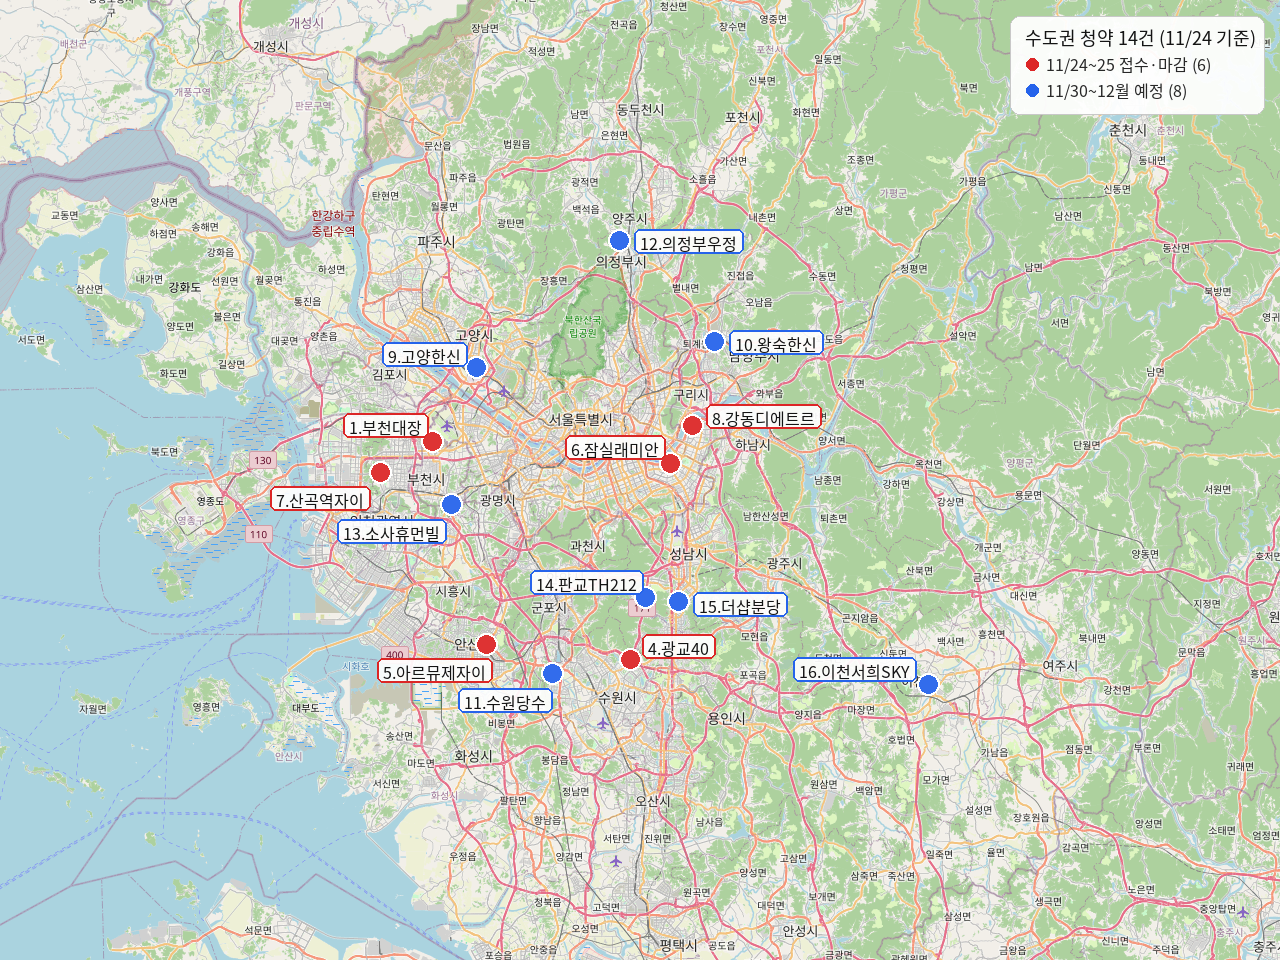
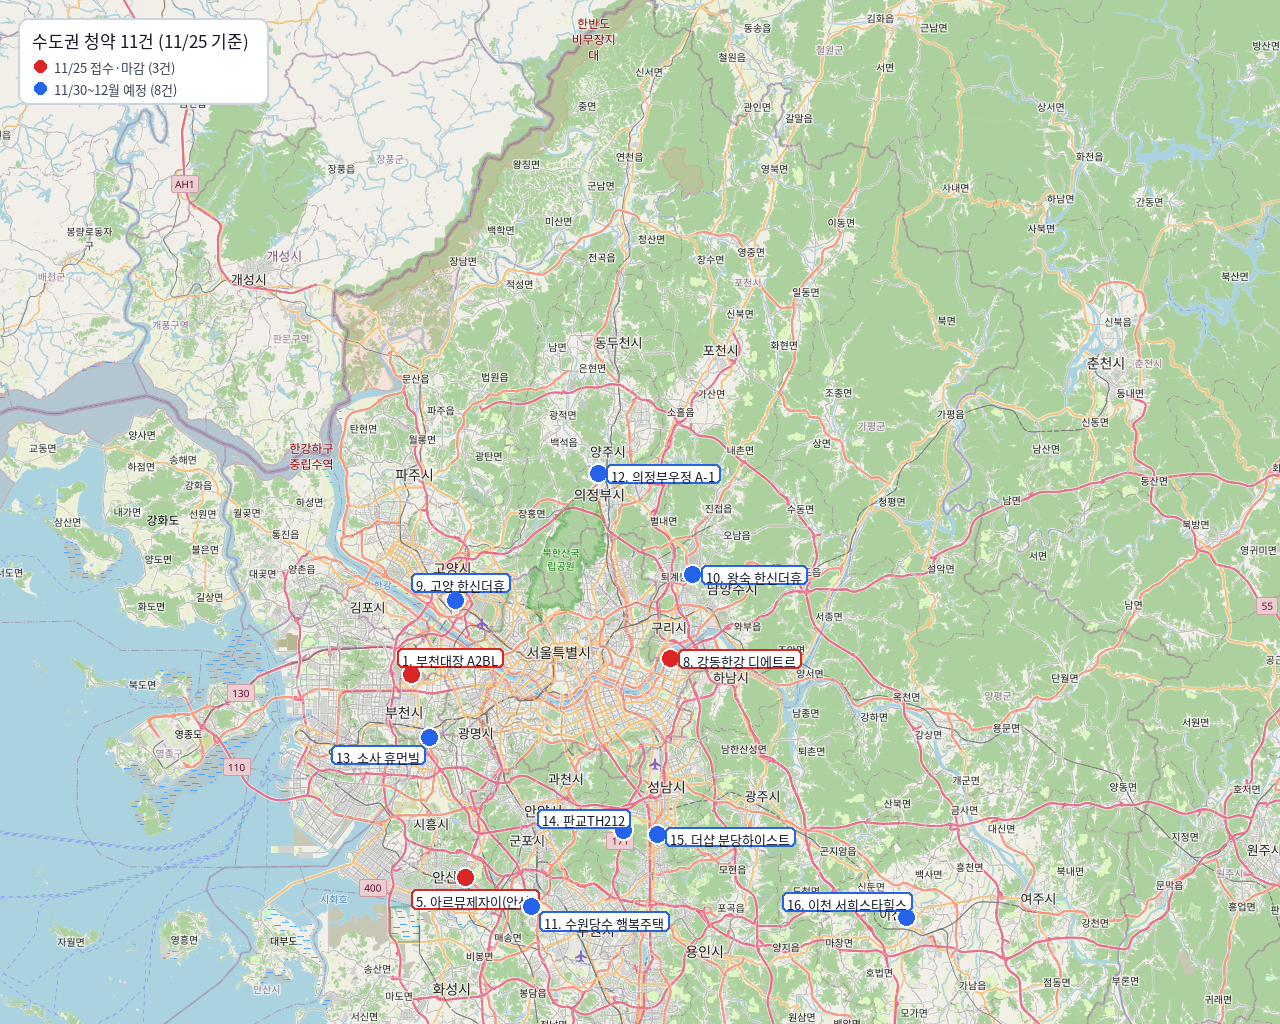
Update subscription map for 2026-11-25 (11 active)

diff --git a/index.html b/index.html
@@ -3,7 +3,7 @@
 <head>
 <meta charset="utf-8" />
 <meta name="viewport" content="width=device-width, initial-scale=1.0" />
-<title>수도권 청약 공고 지도 (2026-11-24 기준)</title>
+<title>수도권 청약 공고 지도 (2026-11-25 기준)</title>
 <link rel="stylesheet" href="https://unpkg.com/leaflet@1.9.4/dist/leaflet.css" />
 <style>
   html, body, #map { margin: 0; padding: 0; width: 100%; height: 100%; font-family: -apple-system, BlinkMacSystemFont, "Noto Sans KR", sans-serif; }
@@ -24,10 +24,7 @@ L.tileLayer('https://tile.openstreetmap.org/{z}/{x}/{y}.png', {
 
 const items = [
   {id: 1, name: "부천대장 하우스토리 디센트 (A2BL)", type: "공공분양 · 경기 부천", sched: "특공 11.23 / 1순위 11.24 / 2순위 11.25", price: "59㎡ 6.13억 / 74㎡ 7.44억 / 84㎡ 8.11억", lat: 37.54206, lng: 126.77555, color: "#dc2626", url: "https://www.applyhome.co.kr/ai/aia/selectAPTLttotPblancDetail.do?houseManageNo=2026000457&pblancNo=2026000457"},
-  {id: 4, name: "수원 광교40 더포레스트 공가 매각", type: "LH 일반매각 · 경기 수원", sched: "11.23(월)~11.24(화)", price: "84.81㎡ 9.16~9.39억", lat: 37.30369, lng: 127.04637, color: "#dc2626", url: "https://apply.lh.or.kr/lhapply/apply/wt/wrtanc/selectWrtancInfo.do?panId=2015122300021113&ccrCnntSysDsCd=03&uppAisTpCd=05&aisTpCd=05&mi=1027"},
   {id: 5, name: "아르뮤제자이", type: "민영 · 경기 안산", sched: "특공 11.23 / 1순위 11.24 / 2순위 11.25", price: "84㎡ 11.05억 / 99~104㎡ 12.4~14.08억", lat: 37.32065, lng: 126.84952, color: "#dc2626", url: "https://www.applyhome.co.kr/ai/aia/selectAPTLttotPblancDetail.do?houseManageNo=2026000576&pblancNo=2026000576"},
-  {id: 6, name: "잠실 래미안아이파크 (재공급)", type: "민영 재공급 · 서울 송파", sched: "11.24(화) 09:00~17:30", price: "43㎡ 11.05억 / 59㎡ 15.79억", lat: 37.51829, lng: 127.10137, color: "#dc2626", url: "https://www.applyhome.co.kr/ai/aia/selectAPTRemndrLttotPblancDetailView.do?houseManageNo=2026930045&pblancNo=2026930045"},
-  {id: 7, name: "산곡역자이힐스테이트&하늘채 무순위", type: "민영 무순위 · 인천 부평", sched: "11.24(화) 09:00~17:30", price: "50~84㎡ 5.1~10.2억", lat: 37.50865, lng: 126.70303, color: "#dc2626", url: "https://www.applyhome.co.kr/"},
   {id: 8, name: "강동한강 디에트르 (임의)", type: "민영 임의공급 · 서울 강동", sched: "11.24(화)~11.25(수) 09:00~17:30", price: "59㎡ 11.03~11.35억 / 79~80㎡ 13.95~14.15억", lat: 37.55911, lng: 127.13169, color: "#dc2626", url: "https://www.applyhome.co.kr/"},
   {id: 9, name: "고양 한신더휴 퍼스트원", type: "민영 · 경기 고양", sched: "특공 11.30 / 1순위 12.01 / 2순위 12.02", price: "59~84㎡ 5.99~8.46억", lat: 37.62236, lng: 126.83604, color: "#2563eb", url: "https://www.applyhome.co.kr/ai/aia/selectAPTLttotPblancDetail.do?houseManageNo=2026000585&pblancNo=2026000585"},
   {id: 10, name: "왕숙 한신더휴 센텀 (A-17BL)", type: "공공분양 · 경기 남양주", sched: "특공 11.30 / 1순위 12.01 / 2순위 12.02", price: "59㎡ 5.99~6.07억", lat: 37.65065, lng: 127.16240, color: "#2563eb", url: "https://bizwave.kr/notice/applyhome_apt-2026000575"},
@@ -50,8 +47,8 @@ items.forEach(it => {
 const legend = L.control({position: 'topright'});
 legend.onAdd = () => {
   const div = L.DomUtil.create('div', 'legend');
-  div.innerHTML = '<b>수도권 청약 14건 (11/24 기준)</b><br>' +
-    '<span class="dot" style="background:#dc2626"></span>11/24~25 접수·마감<br>' +
+  div.innerHTML = '<b>수도권 청약 11건 (11/25 기준)</b><br>' +
+    '<span class="dot" style="background:#dc2626"></span>11/25 접수·마감<br>' +
     '<span class="dot" style="background:#2563eb"></span>11/30~12월 예정';
   return div;
 };
